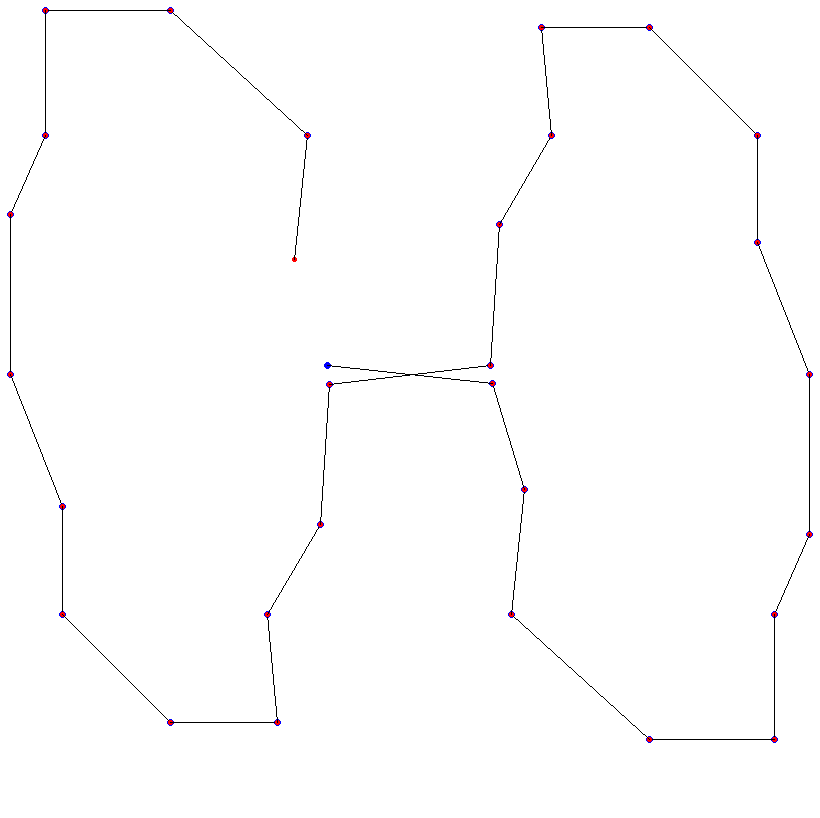
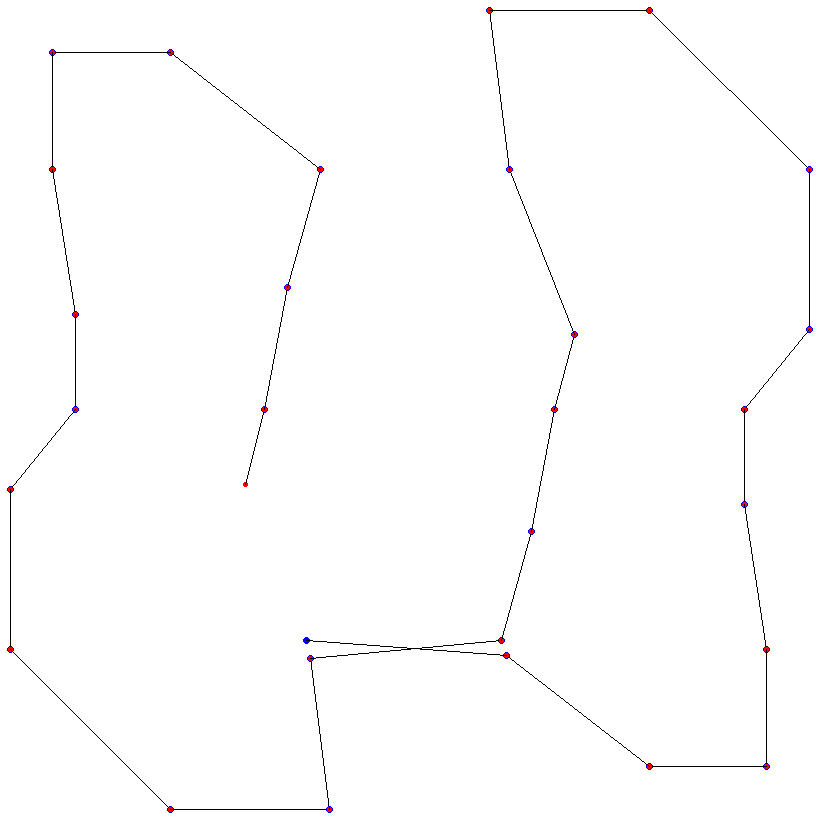
plot required target and mesh

diff --git a/examples/code _edits.py b/examples/code _edits.py
@@ -3,6 +3,8 @@
 # System imports
 import sys
 
+import os
+script_dir = os.path.dirname(__file__)
 # Logging
 import logging
 import matplotlib.pyplot as plt
@@ -493,34 +495,6 @@ if __name__ == '__main__':
 # print('gradient direction')
 # print(result.target_field.target_gradient_dbdxyz)
 # =============================================================================
-# =============================================================================
-# plt.plot(result.target_field.coords[0],result.target_field.coords[1], marker = 'o', linestyle = 'none')
-# plt.show()
-# plt.close()
-# x1 = []
-# x2 = []
-# z1 = []
-# z2 = []
-# =============================================================================
-# =============================================================================
-# for i in range(len(result.combined_mesh.vertices)):
-#     if i < len(result.combined_mesh.vertices)/2:
-#         x1 = x1 + [result.combined_mesh.vertices[i][0]]
-#         z1 = z1 + [result.combined_mesh.vertices[i][1]]
-#     else:
-#         x2 = x2 + [result.combined_mesh.vertices[i][0]]
-#         z2 = z2 + [result.combined_mesh.vertices[i][1]]
-# plt.scatter(x1, z1)
-# for i in range(len(x1)):
-#     plt.annotate(i, (x1[i],z1[i]))
-# plt.show()
-# plt.close()
-# plt.scatter(x2, z2)
-# for i in range(len(x2)):
-#     plt.annotate(i, (x2[i],z2[i]))
-# plt.show()
-# plt.close()
-# =============================================================================
 #%%
 #Span the verticies and determine which satisfy our conditions;
 
@@ -557,7 +531,7 @@ if symmetry[1] != 0:
             yt = yt + [i]
 else:
     ym = np.arange(0, len(result.combined_mesh.vertices), 1)
-    yt = np.arange(0, len(result.target_field.coords[2]), 1)
+    yt = np.arange(0, len(result.target_field.coords[1]), 1)
     
 # for yz symmetry
 
@@ -570,14 +544,62 @@ if symmetry[2] != 0:
             xt = xt + [i]
 else:
     xm = np.arange(0, len(result.combined_mesh.vertices), 1)
-    xt = np.arange(0, len(result.target_field.coords[2]), 1)
+    xt = np.arange(0, len(result.target_field.coords[0]), 1)
 
 # find corresponding values of satisified verticies
-mesh_inds =list( set(xm).intersection(ym, zm))
+mesh_inds =list(set(xm).intersection(ym, zm))
 target_inds = list(set(xt).intersection(yt, zt))
 
 print(mesh_inds)
 print(target_inds)
 
 
+#%%
 
+mesh = os.path.join(script_dir, 'mesh')
+os.makedirs(mesh, exist_ok=True)
+#plot target field
+fig = plt.figure()
+ax = plt.axes(projection = '3d')
+
+for i in range(len(result.target_field.coords[0])):
+    if i in target_inds:
+        ax.scatter(result.target_field.coords[0][i], result.target_field.coords[1][i], result.target_field.coords[2][i], c= 'r')
+    else:
+        ax.scatter(result.target_field.coords[0][i], result.target_field.coords[1][i], result.target_field.coords[2][i], c= 'b')
+    #plt.annotate(i, result.target_field.coords[0][i], result.target_field.coords[1][i], result.target_field.coords[2][i])
+ax.set_title('Target Field, Target Resolution = %d'%arg_dict['target_region_resolution'])
+ax.set_xlabel('x')
+ax.set_ylabel('y')
+ax.set_zlabel('z')
+fig.savefig(os.path.join(mesh,'Target_Field_Target_Resolution_=_%d'%arg_dict['target_region_resolution']))
+plt.show()
+plt.close()
+
+#plot mesh
+
+x1 =[]
+y1 =[]
+z1 =[]
+
+for i in range(len(result.combined_mesh.vertices)):
+    x1 = x1 + [result.combined_mesh.vertices[i][0]]
+    y1 = y1 + [result.combined_mesh.vertices[i][1]]
+    z1 = z1 + [result.combined_mesh.vertices[i][2]]
+    
+    
+fig1 = plt.figure()
+ax = plt.axes(projection = '3d')
+for i in range(len(result.combined_mesh.vertices)):
+    if i in mesh_inds:
+        ax.scatter(x1[i], y1[i], z1[i], c= 'r')
+    else:
+        ax.scatter(x1[i], y1[i], z1[i], c= 'b')
+    #plt.annotate(i, x1[i], y1[i], z1[i])
+ax.set_title('Coil Mesh, Coil Mesh Resolution = %d x '%(arg_dict['planar_mesh_parameter_list'][2]*arg_dict['iteration_num_mesh_refinement']) + '%d'%(arg_dict['planar_mesh_parameter_list'][3]*arg_dict['iteration_num_mesh_refinement']))
+ax.set_xlabel('x')
+ax.set_ylabel('y')
+ax.set_zlabel('z')
+fig1.savefig(os.path.join(mesh,'Coil_Mesh_Coil_Mesh_Resolution_=_%d'%(arg_dict['planar_mesh_parameter_list'][2]*arg_dict['iteration_num_mesh_refinement']) + '_%d'%(arg_dict['planar_mesh_parameter_list'][3]*arg_dict['iteration_num_mesh_refinement'])))
+plt.show()
+plt.close()
